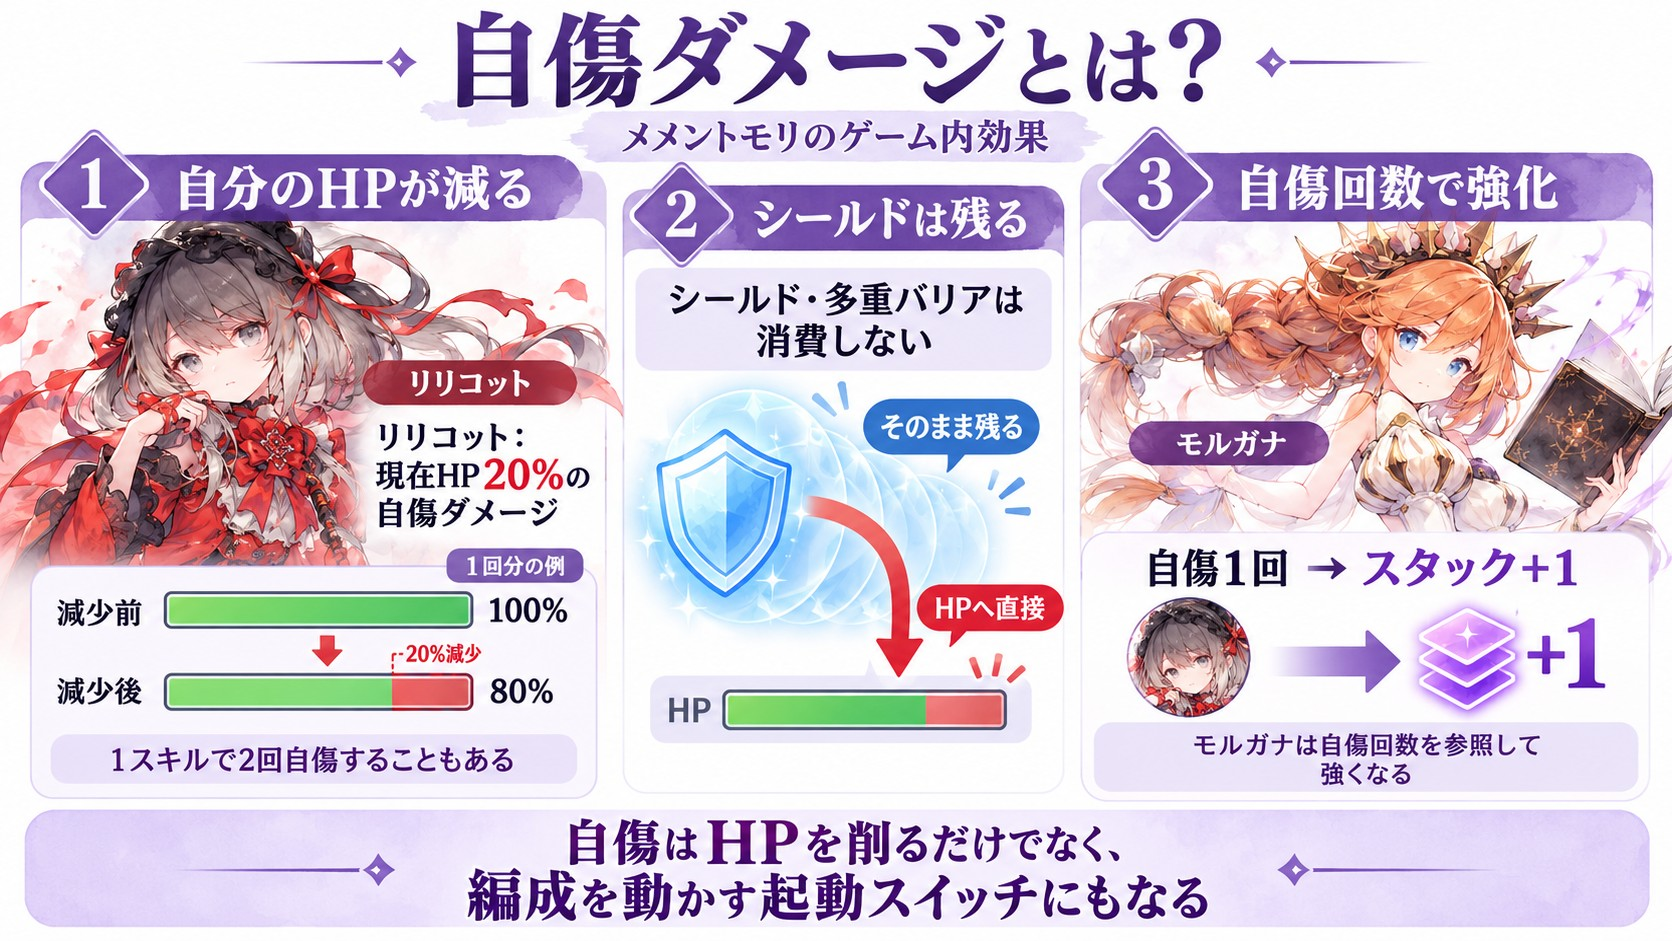
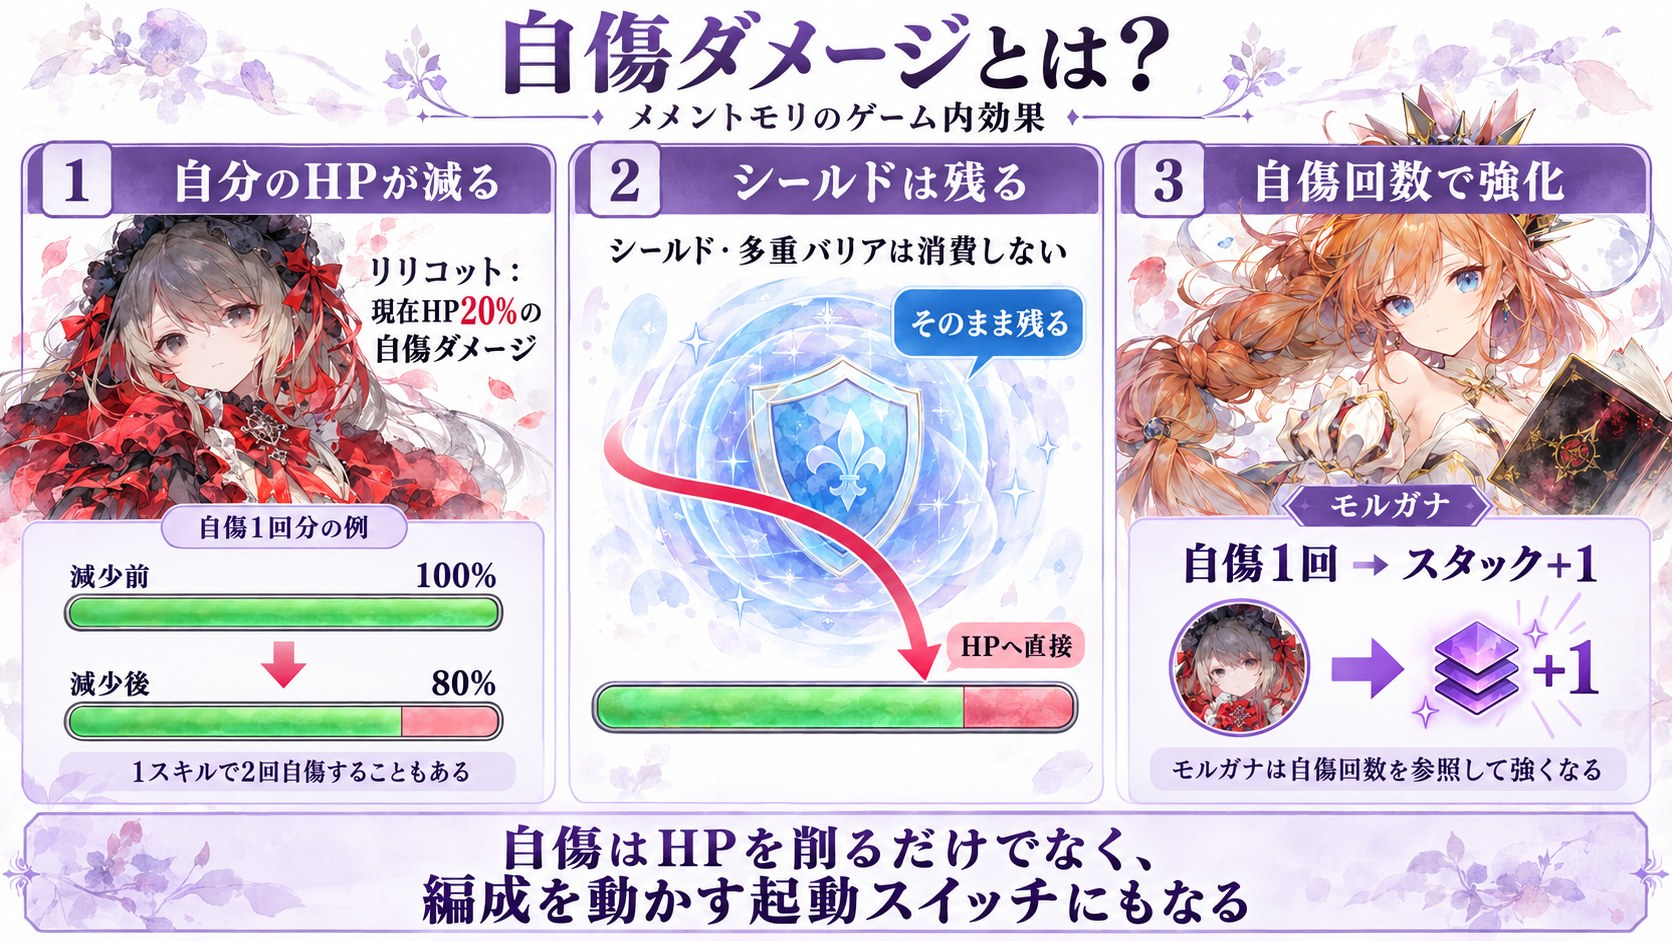
feat(status-guide): 自傷ガイドの図解をネネ作成の新版（PC横長1枚＋スマホ縦長3枚）に差し替える
- PC用 self-damage-guide.{jpg,webp,-960.webp} を新しい横長版（1672×941）に差し替え
- スマホ用 self-damage-guide-m1〜m3 を、切り抜きから専用の縦長版（1122×1402）に差し替え
- data/status/self-damage.json の分割画像の原寸と alt を新しい画像の内容に合わせて更新

Claude-Session: https://claude.ai/code/session_01EhzkGay7KDYbnbeZomBtAR

diff --git a/pages/status/self-damage.html b/pages/status/self-damage.html
@@ -59,7 +59,7 @@
               <a href="../../assets/status/self-damage-guide-m1.jpg" aria-label="図1を拡大して開く（3枚中1枚目）">
                 <picture>
                   <source type="image/webp" srcset="../../assets/status/self-damage-guide-m1.webp">
-                  <img src="../../assets/status/self-damage-guide-m1.jpg" width="608" height="682" alt="1、自分のHPが減る。例：リリコットは現在HP20%の自傷ダメージ。1回分でHPが100%から80%になる。1スキルで2回自傷することもある" loading="lazy" decoding="async">
+                  <img src="../../assets/status/self-damage-guide-m1.jpg" width="1122" height="1402" alt="自傷ダメージの基礎知識1/3。自分のHPが減る。例：リリコットは現在HP20%の自傷ダメージ。自傷1回分でHPが100%から80%になる（20%減少）。1スキルで2回自傷することもある。自傷ダメージは、自分のHPを減らす効果" loading="lazy" decoding="async">
                 </picture>
               </a>
             </figure>
@@ -67,7 +67,7 @@
               <a href="../../assets/status/self-damage-guide-m2.jpg" aria-label="図2を拡大して開く（3枚中2枚目）">
                 <picture>
                   <source type="image/webp" srcset="../../assets/status/self-damage-guide-m2.webp">
-                  <img src="../../assets/status/self-damage-guide-m2.jpg" width="453" height="646" alt="2、シールドは残る。シールド・多重バリアは消費せず、HPへ直接入る" loading="lazy" decoding="async">
+                  <img src="../../assets/status/self-damage-guide-m2.jpg" width="1122" height="1402" alt="自傷ダメージの基礎知識2/3。シールドは残る。シールド・多重バリアは消費しない。自傷ダメージはHPへ直接入る。自傷では、シールドは減らずHPだけが減る" loading="lazy" decoding="async">
                 </picture>
               </a>
             </figure>
@@ -75,7 +75,7 @@
               <a href="../../assets/status/self-damage-guide-m3.jpg" aria-label="図3を拡大して開く（3枚中3枚目）">
                 <picture>
                   <source type="image/webp" srcset="../../assets/status/self-damage-guide-m3.webp">
-                  <img src="../../assets/status/self-damage-guide-m3.jpg" width="600" height="682" alt="3、自傷回数で強化。自傷1回でモルガナのスタックが1増える。モルガナは自傷回数を参照して強くなる" loading="lazy" decoding="async">
+                  <img src="../../assets/status/self-damage-guide-m3.jpg" width="1122" height="1402" alt="自傷ダメージの基礎知識3/3。自傷回数で強化。モルガナは、自傷1回でスタックが1増える。モルガナは自傷回数を参照して強くなる。自傷は、編成を動かす起動スイッチにもなる" loading="lazy" decoding="async">
                 </picture>
               </a>
             </figure>
